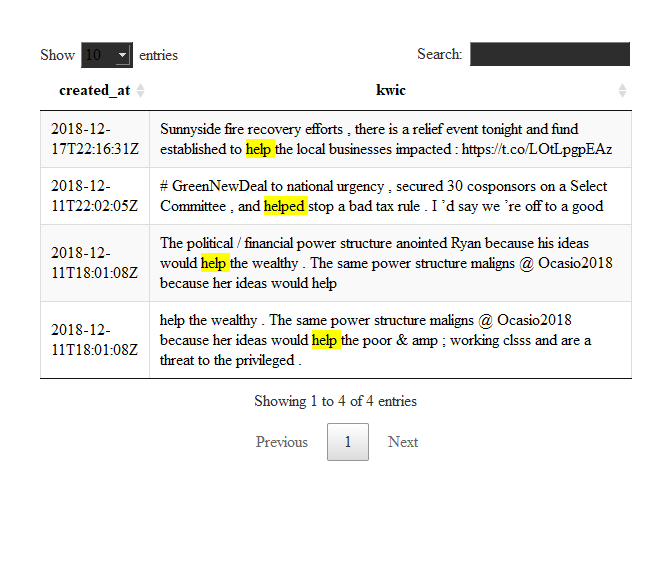
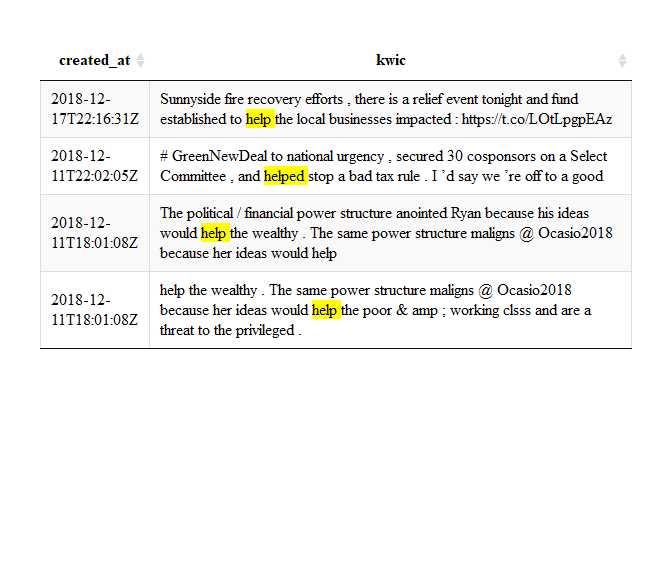
re

diff --git a/README.md b/README.md
@@ -193,7 +193,7 @@ ocasio_annotated %>%
                                   LW=15, RW = 15)%>%
   corpuslingr::clr_context_kwic(include= c('created_at'))%>% 
   
-  DT::datatable(selection="none",
+  DT::datatable(options = list(pageLength = 5, dom = 't'),
                 class = 'cell-border stripe', 
                 rownames = FALSE,
                 width="100%", 
